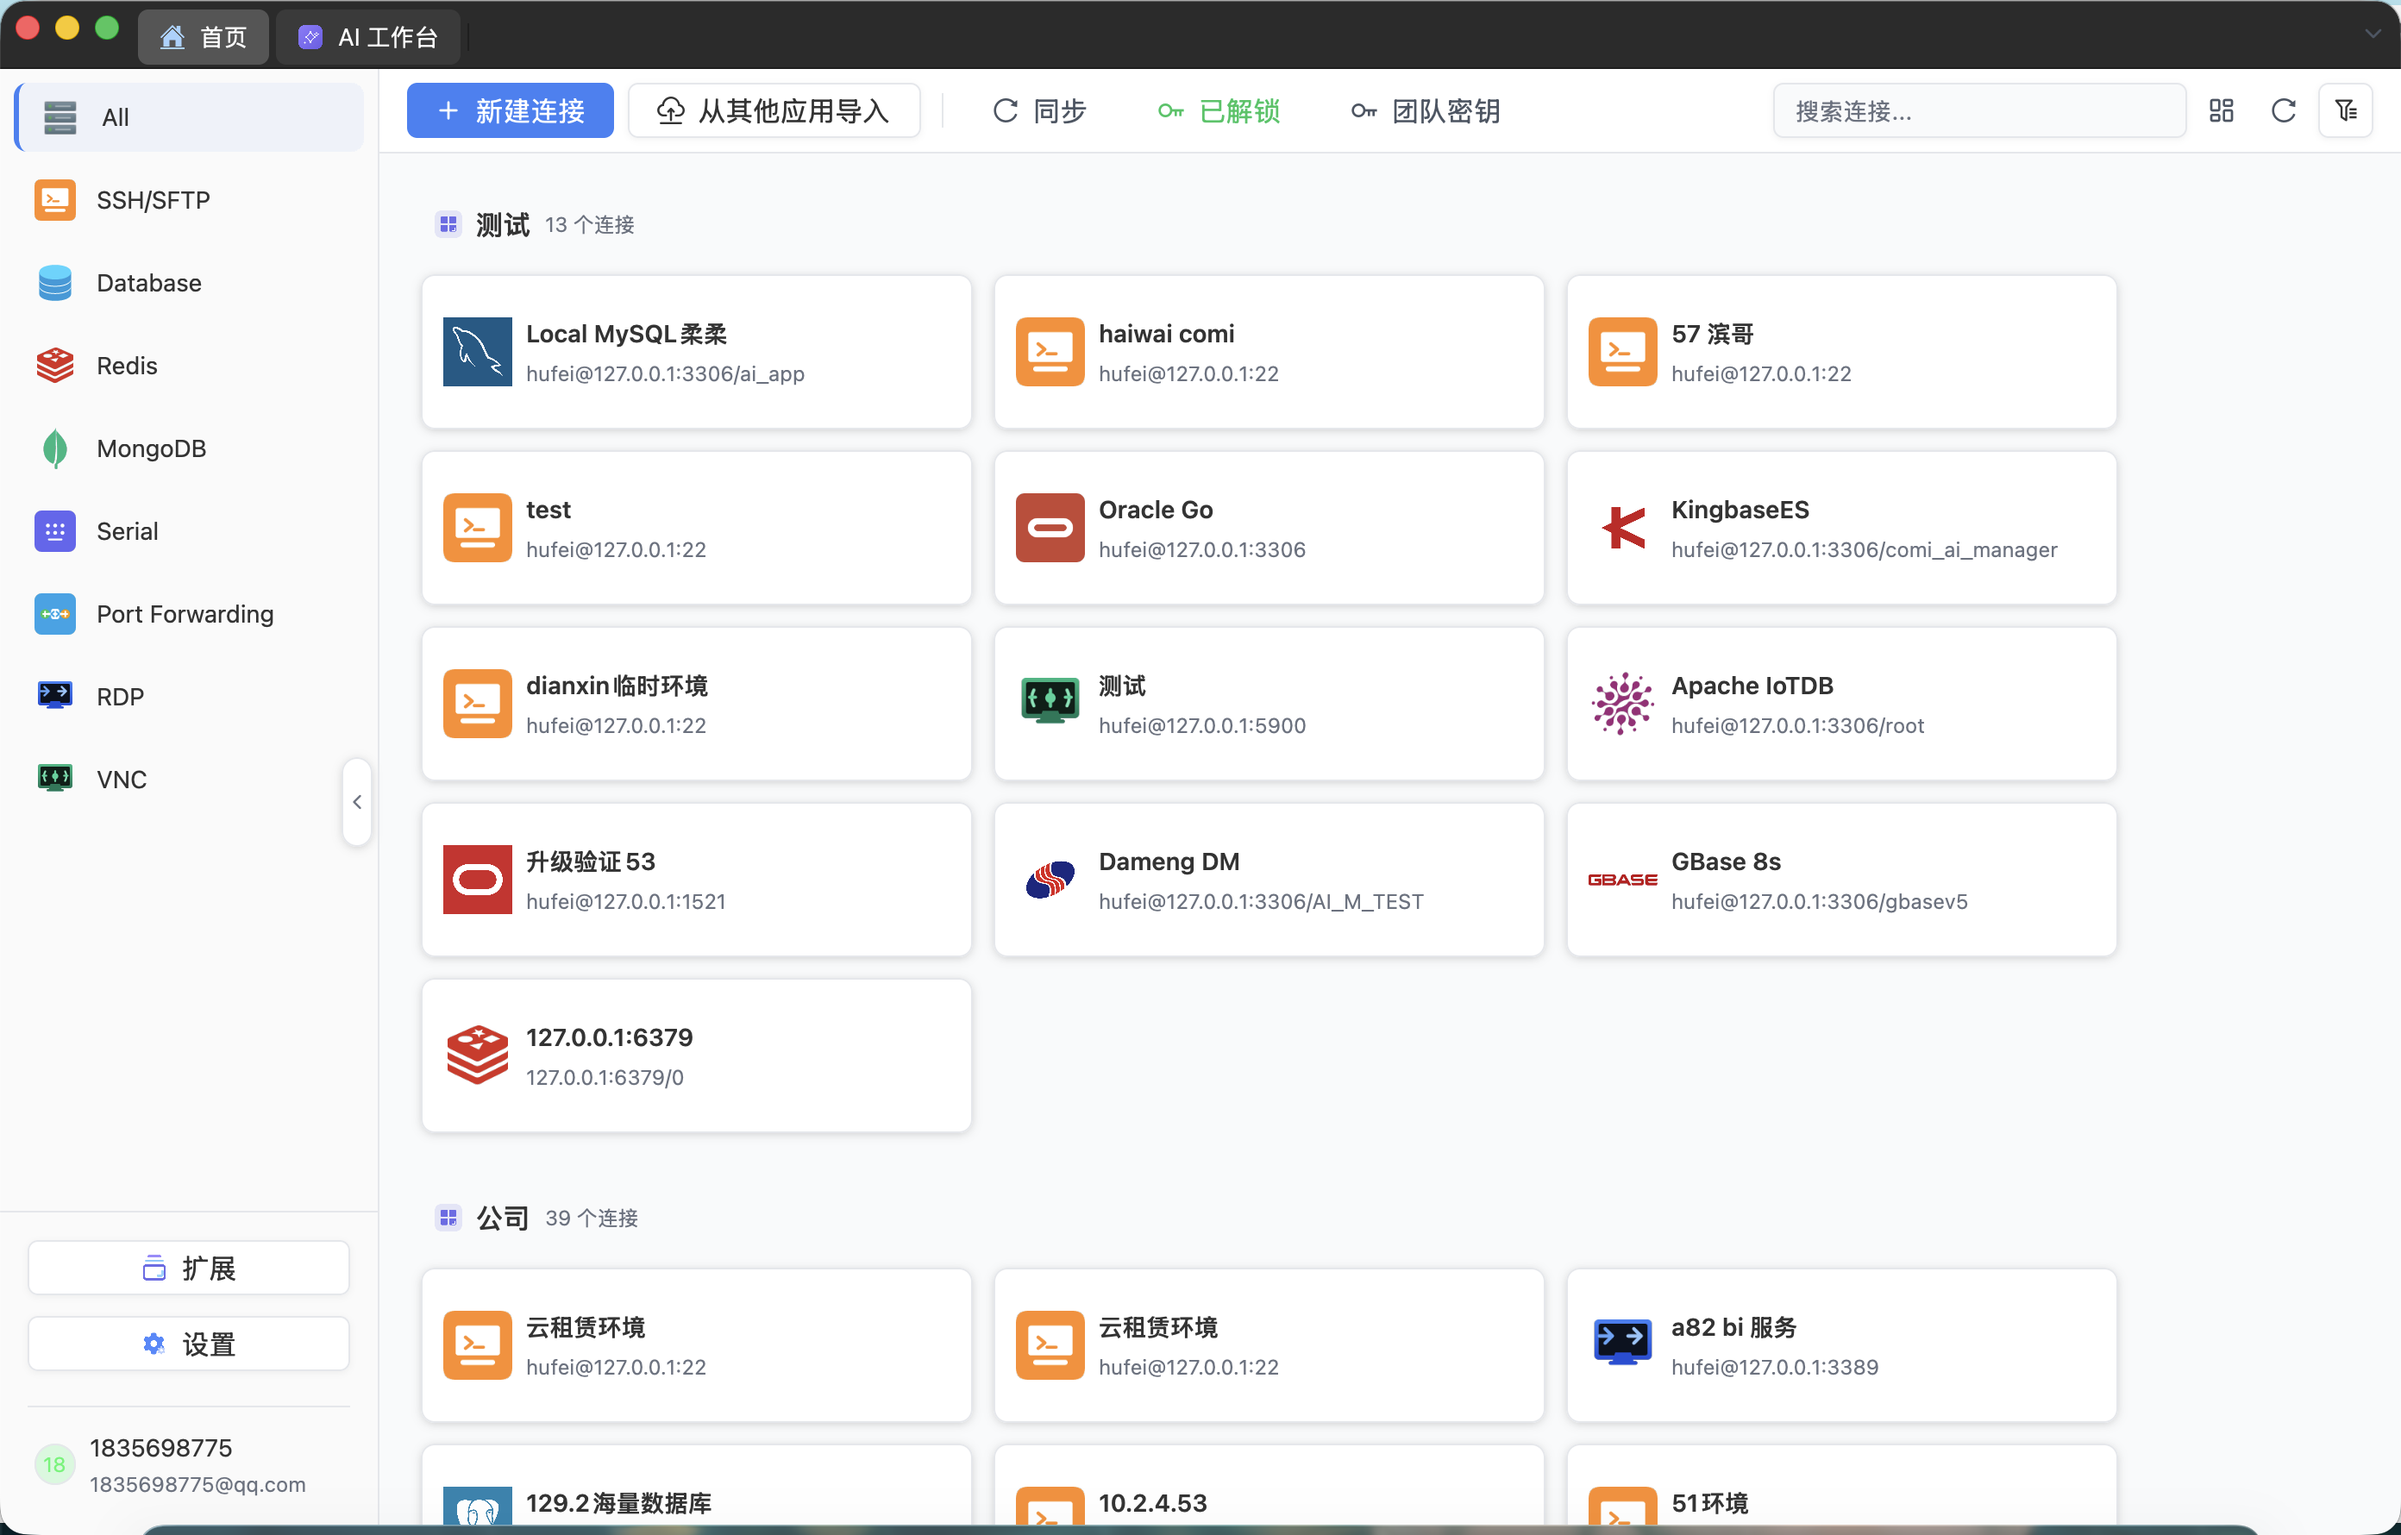
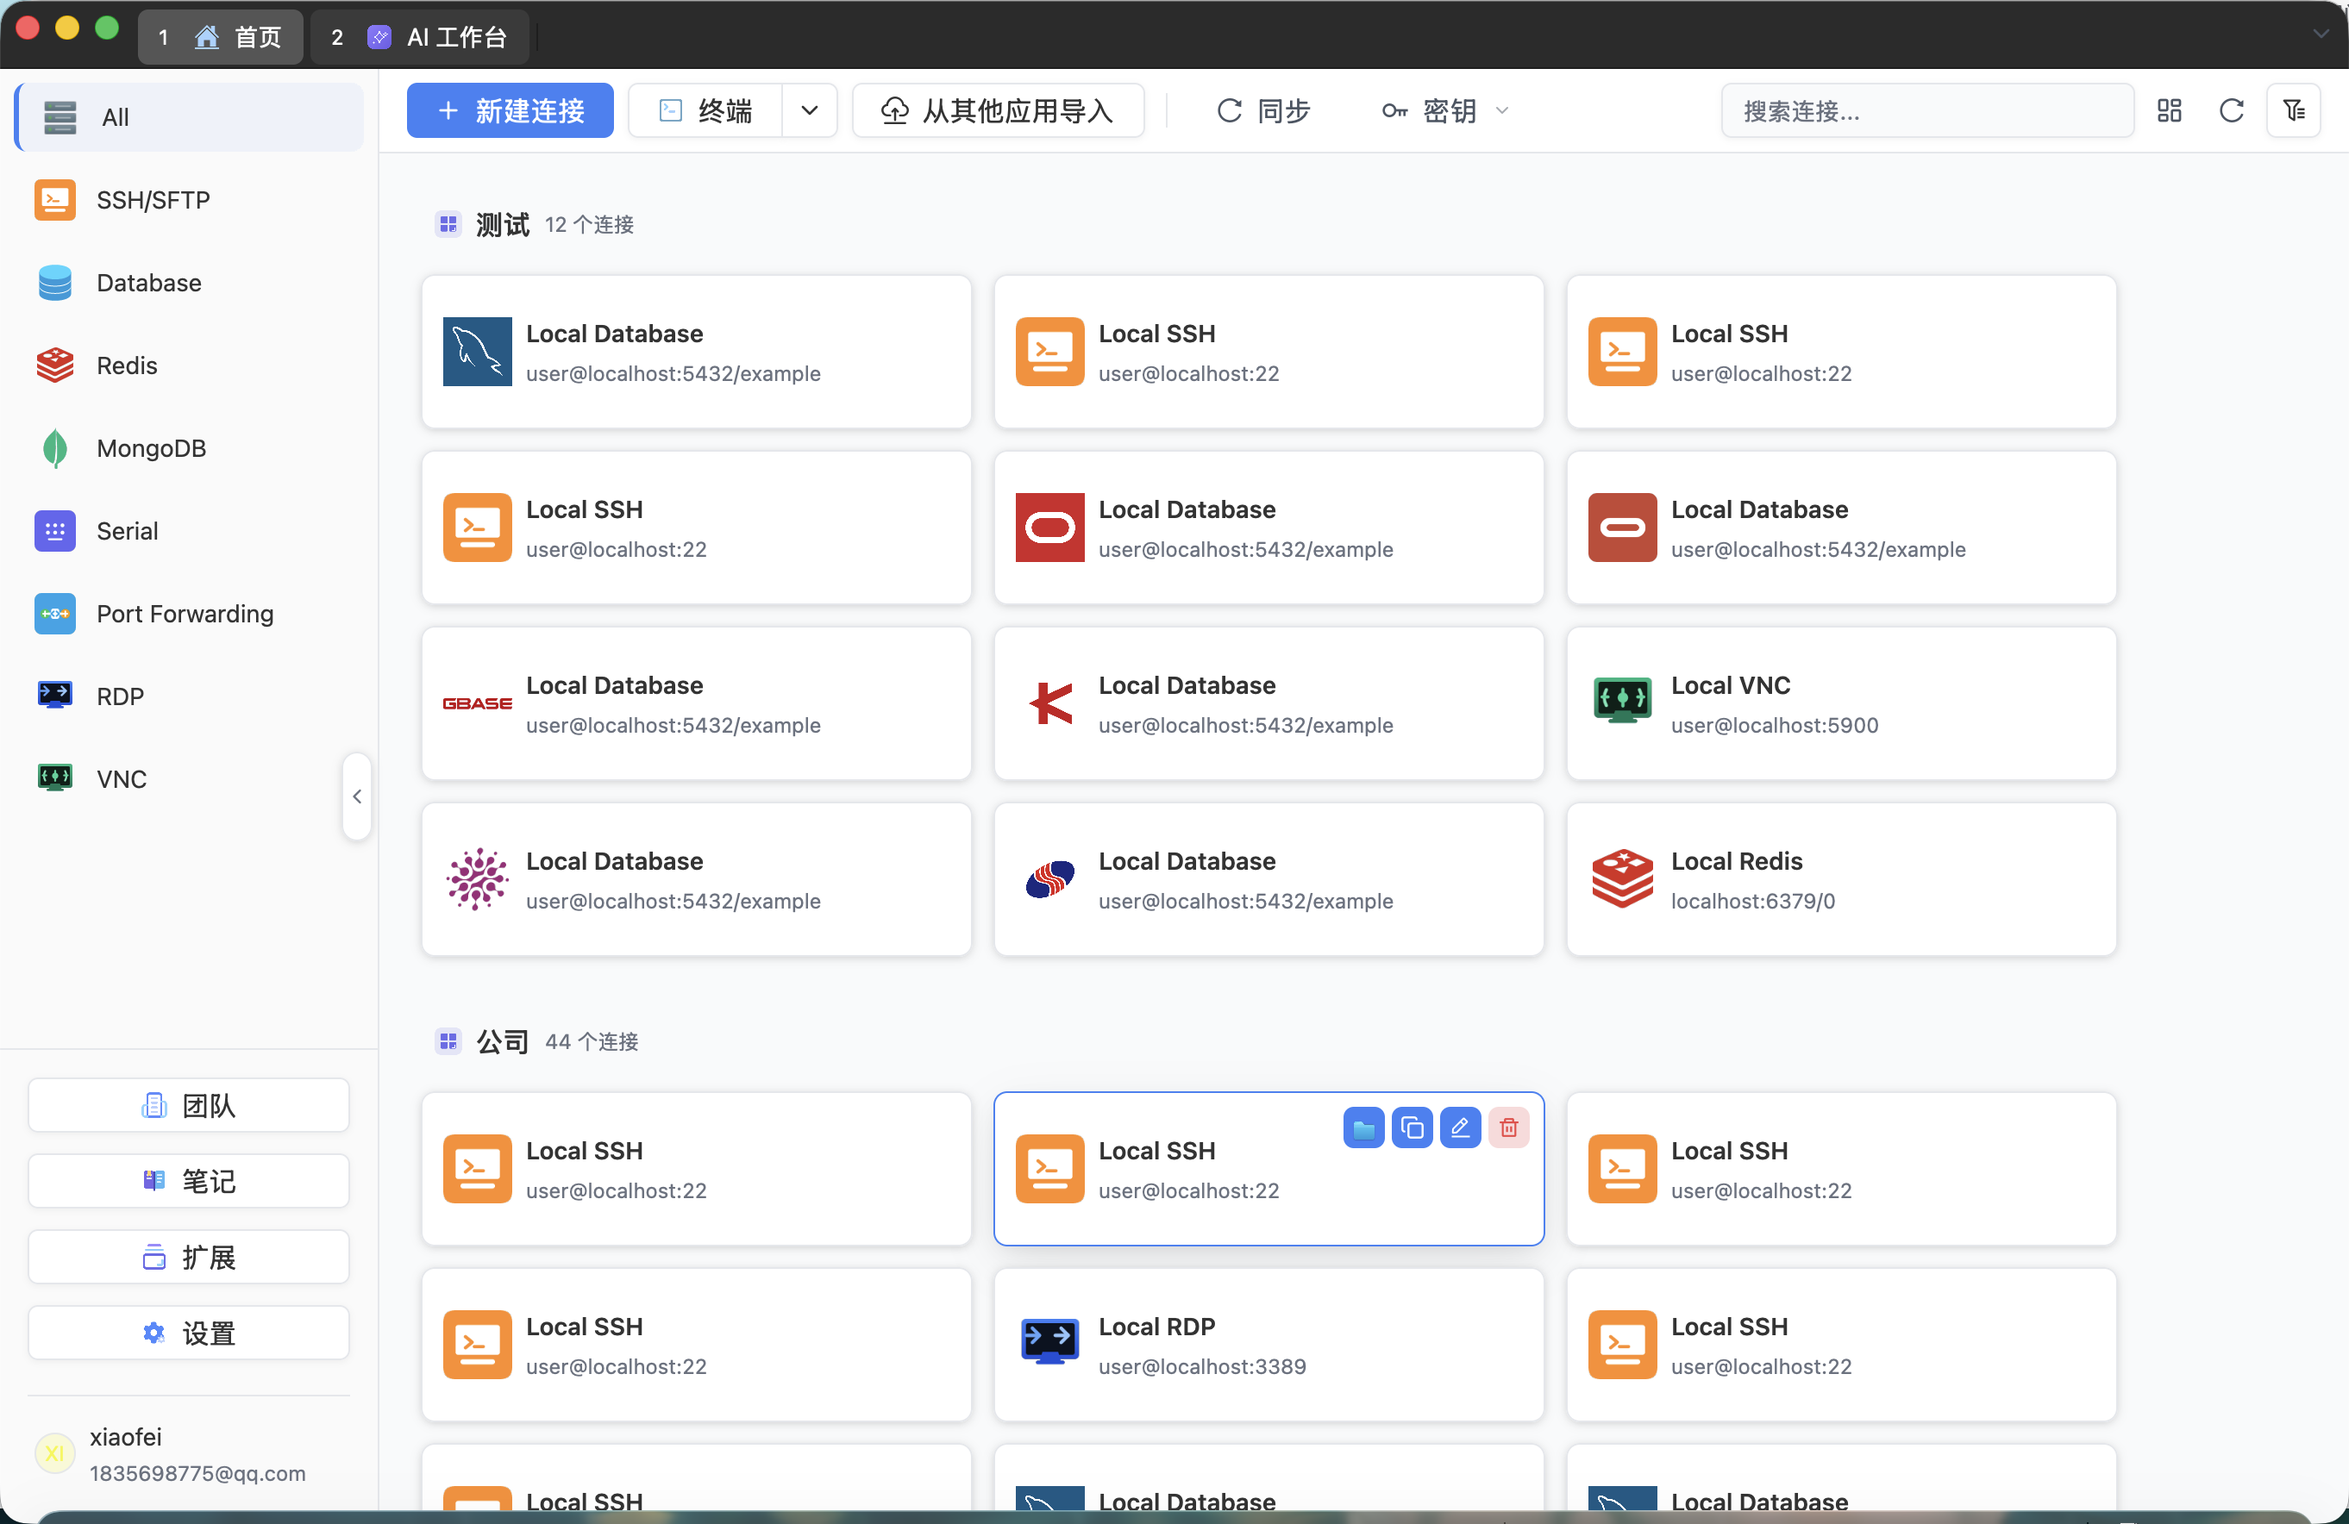
docs: add Notes workspace screenshots

diff --git a/docs-site/docs/.vitepress/theme/custom.css b/docs-site/docs/.vitepress/theme/custom.css
@@ -47,6 +47,33 @@ body {
   box-shadow: 0 10px 28px rgba(24, 35, 52, 0.08);
 }
 
+.notes-screenshot-grid {
+  display: grid;
+  grid-template-columns: repeat(2, minmax(0, 1fr));
+  gap: 18px;
+  margin: 28px 0 42px;
+}
+
+.notes-screenshot-grid figure {
+  min-width: 0;
+  margin: 0;
+}
+
+.notes-screenshot-grid figure:first-child {
+  grid-column: 1 / -1;
+}
+
+.notes-screenshot-grid img {
+  margin: 0 !important;
+}
+
+.notes-screenshot-grid figcaption {
+  margin-top: 9px;
+  color: var(--vp-c-text-2);
+  font-size: 13px;
+  text-align: center;
+}
+
 .VPFooter {
   border-top: 1px solid var(--vp-c-divider);
 }
@@ -54,5 +81,13 @@ body {
 @media (max-width: 720px) {
   :root {
     --vp-sidebar-width: 280px;
+  }
+
+  .notes-screenshot-grid {
+    grid-template-columns: 1fr;
+  }
+
+  .notes-screenshot-grid figure:first-child {
+    grid-column: auto;
   }
 }

diff --git a/docs-site/docs/en-US/guide/notes.md b/docs-site/docs/en-US/guide/notes.md
@@ -2,6 +2,12 @@
 
 Notes manages Markdown, rich-text, and whiteboard material in a local folder, keeping query records, operational procedures, and project knowledge beside active connections. Files remain in the directory you choose; Navop is not a replacement for backup or version control.
 
+<div class="notes-screenshot-grid">
+  <figure><img src="/images/markdown.png" alt="Markdown Notes workspace"><figcaption>Markdown documents, Mermaid, and math</figcaption></figure>
+  <figure><img src="/images/richtext.png" alt="Rich-text Notes workspace"><figcaption>Rich-text blocks and embedded content</figcaption></figure>
+  <figure><img src="/images/whiteboard.png" alt="Notes whiteboard workspace"><figcaption>Whiteboard canvas and freeform layout</figcaption></figure>
+</div>
+
 ## Choose a workspace folder
 
 Select a readable and writable folder on first use, or change the Notes path in Settings. Use clear project directories and remember that changing the configured path does not move old files. Cloud drives, network folders, and Git repositories may work, but their synchronization and locking rules still apply.

diff --git a/docs-site/docs/guide/notes.md b/docs-site/docs/guide/notes.md
@@ -2,6 +2,12 @@
 
 Notes 用于在本地目录中管理 Markdown、富文本和白板内容，把查询记录、运维步骤和项目资料放在连接工作流旁边。文件仍保存在你选择的目录中，Navop 不替代版本控制和备份。
 
+<div class="notes-screenshot-grid">
+  <figure><img src="/images/markdown.png" alt="Markdown Notes 工作区"><figcaption>Markdown 文档、Mermaid 与数学公式</figcaption></figure>
+  <figure><img src="/images/richtext.png" alt="富文本 Notes 工作区"><figcaption>富文本块编辑与嵌入内容</figcaption></figure>
+  <figure><img src="/images/whiteboard.png" alt="Notes 白板工作区"><figcaption>白板画布与自由排版</figcaption></figure>
+</div>
+
 ## 选择工作目录
 
 首次进入 Notes 时选择一个有读写权限的本地目录，也可以在设置中更换 Notes 路径。建议为不同项目使用清晰目录，并了解更换路径后旧文件不会自动移动。云盘、网络盘或版本控制目录可以使用，但同步冲突与文件锁由相应工具负责。

diff --git a/docs-site/docs/zh-TW/guide/notes.md b/docs-site/docs/zh-TW/guide/notes.md
@@ -2,6 +2,12 @@
 
 Notes 在你選擇的本機目錄管理 Markdown、富文字和白板，讓查詢記錄、維運步驟和專案資料留在連線工作旁。檔案仍由你管理，Navop 不能取代備份與版本控制。
 
+<div class="notes-screenshot-grid">
+  <figure><img src="/images/markdown.png" alt="Markdown Notes 工作區"><figcaption>Markdown 文件、Mermaid 與數學公式</figcaption></figure>
+  <figure><img src="/images/richtext.png" alt="富文字 Notes 工作區"><figcaption>富文字區塊編輯與嵌入內容</figcaption></figure>
+  <figure><img src="/images/whiteboard.png" alt="Notes 白板工作區"><figcaption>白板畫布與自由排版</figcaption></figure>
+</div>
+
 ## 選擇工作目錄
 
 首次進入時選擇可讀寫的資料夾，也可在設定更換 Notes 路徑。不同專案使用清楚的目錄；更換設定不會自動搬移舊檔案。雲端硬碟、網路磁碟和 Git 目錄的同步衝突與鎖定仍由相應工具處理。

diff --git a/README.md b/README.md
@@ -258,6 +258,14 @@ Sync connections and settings across devices with encrypted key storage based on
 |:-:|
 | [![Extensions](extension.png)](extension.png) |
 
+| Markdown Notes | Rich-text Notes |
+|:-:|:-:|
+| [![Markdown Notes](markdown.png)](markdown.png) | [![Rich-text Notes](richtext.png)](richtext.png) |
+
+| Whiteboard Notes |
+|:-:|
+| [![Whiteboard Notes](whiteboard.png)](whiteboard.png) |
+
 ## Install
 
 Download the latest build from the [Releases](https://github.com/feigeCode/navop/releases/latest) page.
